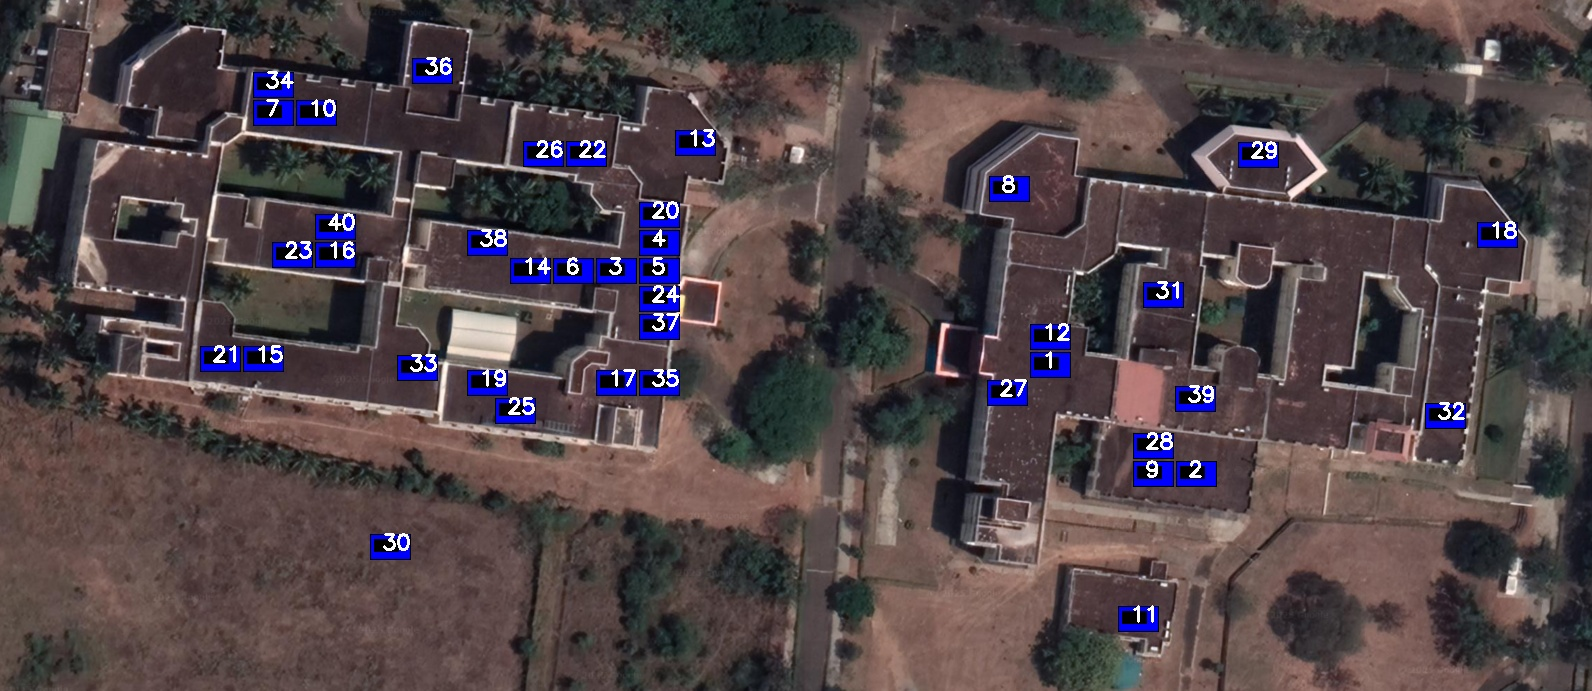
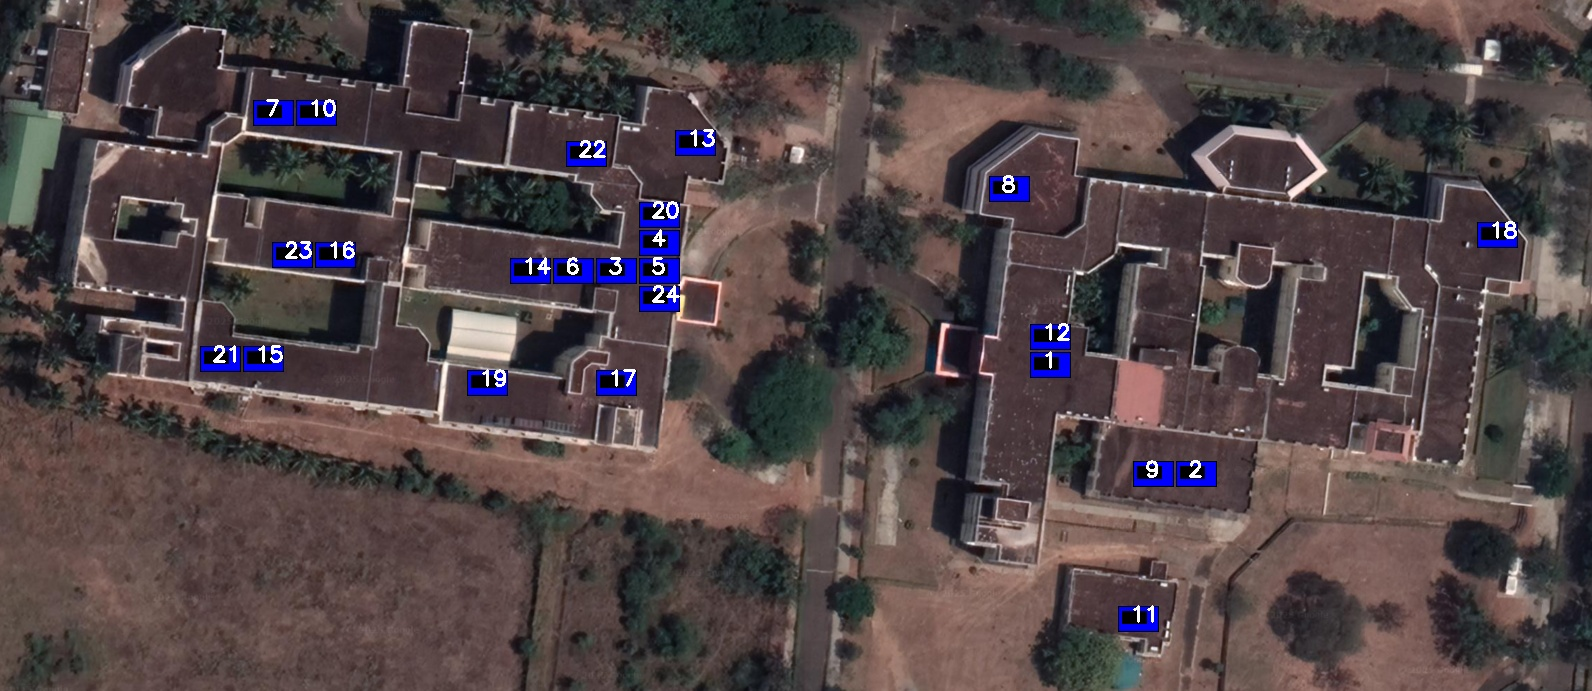
port no. changes

diff --git a/rooftop_api.py b/rooftop_api.py
@@ -243,4 +243,4 @@ async def health_check():
 
 if __name__ == "__main__":
     import uvicorn
-    uvicorn.run(app, host="0.0.0.0", port=8000)
+    uvicorn.run(app, host="0.0.0.0", port=8002)
